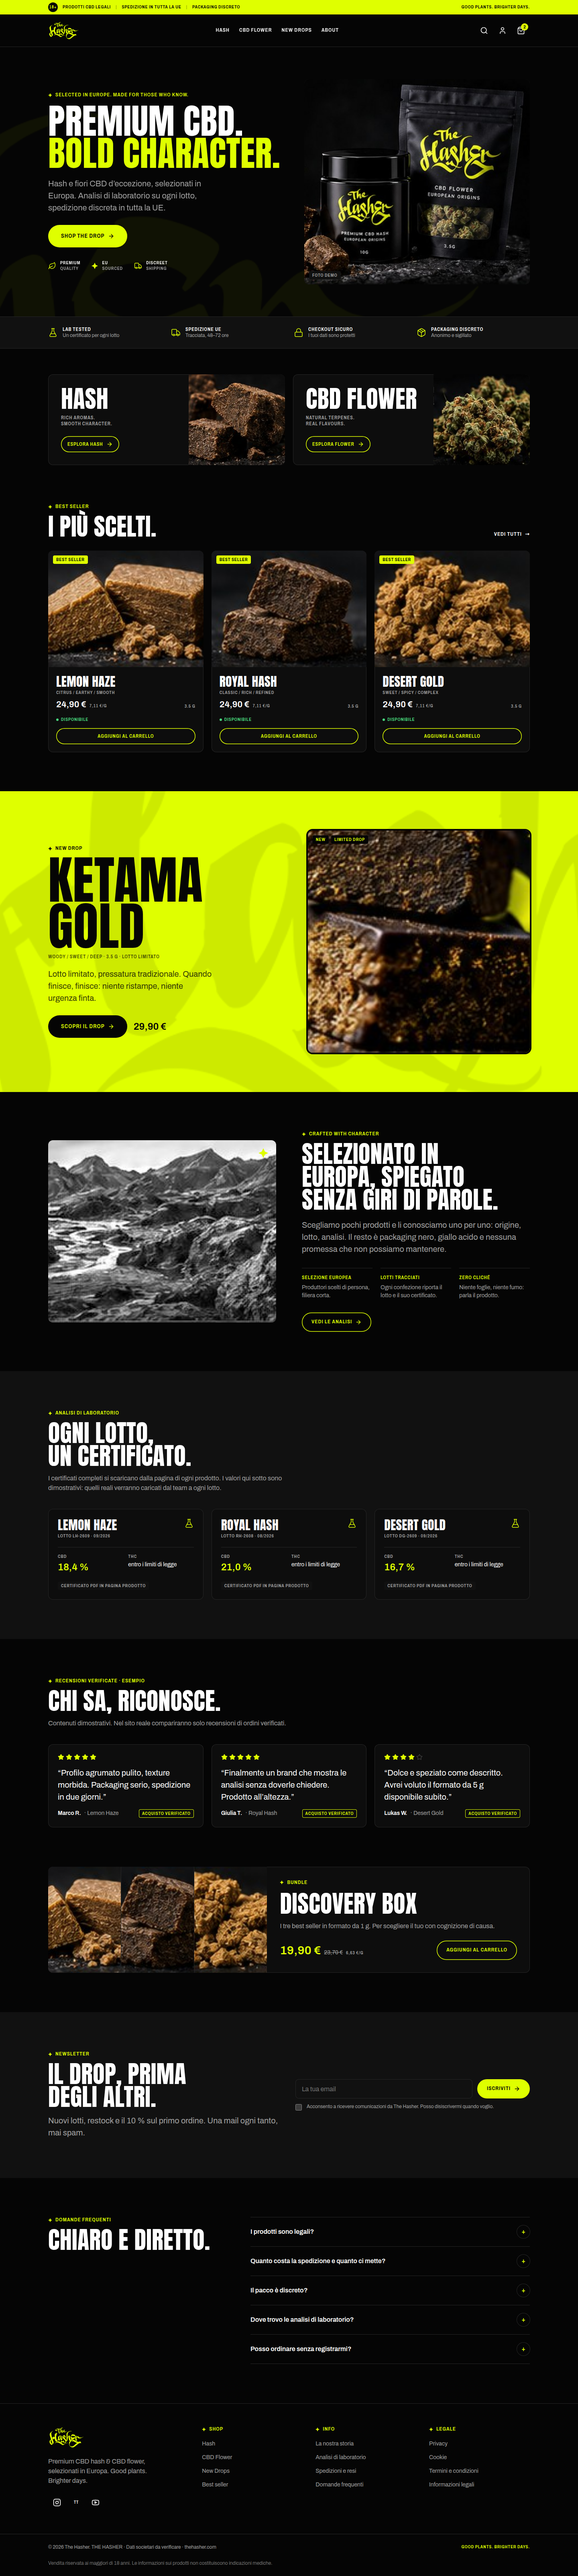
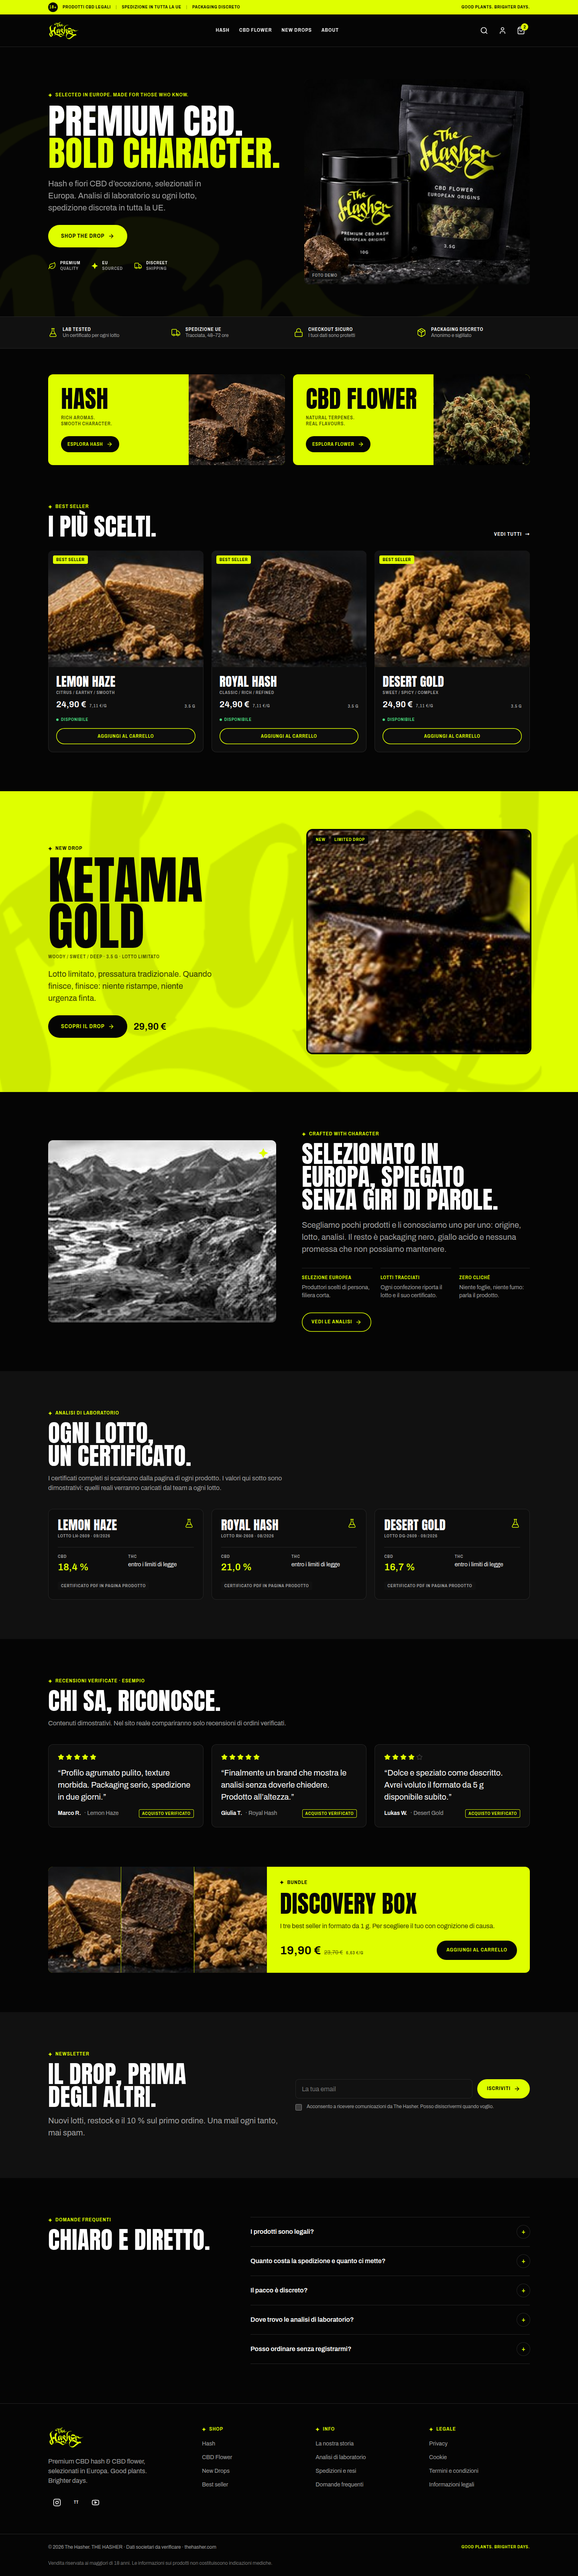
Schede categoria e bundle su fondo giallo con scritte nere
- Card Hash e CBD Flower: fondo giallo acido, titolo e testo neri, bottone nero
- Card bundle Discovery Box: stesso trattamento, separatori delle foto scuri
- Prezzo: nuova variante scura per i fondi gialli

Claude-Session: https://claude.ai/code/session_01PPPZbsQhydRMweje4EtK5n

Changed region(s): [[0.4375, 0.7172, 0.9375, 0.7795], [0.0625, 0.1247, 0.3438, 0.1871], [0.5, 0.1247, 0.75, 0.1871]]

diff --git a/src/pages/Home.tsx b/src/pages/Home.tsx
@@ -109,18 +109,18 @@ export default function Home() {
               <article
                 key={c.id}
                 id={c.id}
-                className="group relative grid scroll-mt-28 grid-cols-[1fr_auto] overflow-hidden rounded-card bg-surface ring-1 ring-line ring-inset"
+                className="group relative grid scroll-mt-28 grid-cols-[1fr_auto] overflow-hidden rounded-card bg-primary text-primary-fg"
               >
                 <div className="flex flex-col justify-between gap-6 p-6 md:p-8">
                   <div>
                     <h2 className="text-h2">{c.title}</h2>
-                    <p className="mt-3 label text-[0.75rem] text-fg-muted">
+                    <p className="mt-3 label text-[0.75rem] text-primary-fg/70">
                       {c.lines[0]}
                       <br />
                       {c.lines[1]}
                     </p>
                   </div>
-                  <Button to={`/#${c.id}`} variant="outline" size="sm" className="self-start">
+                  <Button to={`/#${c.id}`} variant="dark" size="sm" className="self-start">
                     {c.cta} <ArrowRight className="size-4" />
                   </Button>
                 </div>
@@ -305,8 +305,8 @@ export default function Home() {
       {/* ---------- Bundle ---------- */}
       <Section className="pt-0">
         <Container>
-          <article className="grid overflow-hidden rounded-card bg-surface ring-1 ring-line ring-inset md:grid-cols-[1fr_1.2fr]">
-            <div className="grid grid-cols-3 gap-px bg-line">
+          <article className="grid overflow-hidden rounded-card bg-primary text-primary-fg md:grid-cols-[1fr_1.2fr]">
+            <div className="grid grid-cols-3 gap-px bg-primary-fg/20">
               {bestSellers.map((p) => (
                 <img
                   key={p.slug}
@@ -318,17 +318,18 @@ export default function Home() {
               ))}
             </div>
             <div className="flex flex-col gap-4 p-6 md:p-8">
-              <Eyebrow>{home.bundle.eyebrow}</Eyebrow>
+              <Eyebrow tone="dark">{home.bundle.eyebrow}</Eyebrow>
               <h2 className="text-h2">{home.bundle.title}</h2>
-              <p className="max-w-prose text-fg-muted">{home.bundle.text}</p>
+              <p className="max-w-prose text-primary-fg/80">{home.bundle.text}</p>
               <div className="mt-2 flex flex-wrap items-center justify-between gap-4">
                 <Price
                   cents={home.bundle.price}
                   compareAt={home.bundle.compareAt}
                   grams={home.bundle.grams}
                   size="lg"
+                  tone="dark"
                 />
-                <Button variant="outline">{home.bundle.cta}</Button>
+                <Button variant="dark">{home.bundle.cta}</Button>
               </div>
             </div>
           </article>

diff --git a/src/components/ui/Price.tsx b/src/components/ui/Price.tsx
@@ -10,21 +10,44 @@ type PriceProps = {
   /** grammi del formato: mostra il prezzo al grammo */
   grams?: number
   size?: 'md' | 'lg'
+  /** `dark` = da usare sui fondi gialli: prezzo e note in nero */
+  tone?: 'primary' | 'dark'
   className?: string
 }
 
-/** Prezzo in giallo, prezzo precedente barrato, prezzo al grammo sempre visibile. */
-export function Price({ cents, compareAt, grams, size = 'md', className }: PriceProps) {
+/** Prezzo in evidenza, prezzo precedente barrato, prezzo al grammo sempre visibile. */
+export function Price({
+  cents,
+  compareAt,
+  grams,
+  size = 'md',
+  tone = 'primary',
+  className,
+}: PriceProps) {
+  const onYellow = tone === 'dark'
   return (
     <p className={cn('flex flex-wrap items-baseline gap-x-2 gap-y-0.5', className)}>
-      <span className={cn('font-semibold text-primary', size === 'lg' ? 'text-3xl' : 'text-price')}>
+      <span
+        className={cn(
+          'font-semibold',
+          onYellow ? 'text-primary-fg' : 'text-primary',
+          size === 'lg' ? 'text-3xl' : 'text-price',
+        )}
+      >
         {formatPrice(cents)}
       </span>
       {compareAt && compareAt > cents && (
-        <s className="text-sm text-fg-muted">{formatPrice(compareAt)}</s>
+        <s className={cn('text-sm', onYellow ? 'text-primary-fg/60' : 'text-fg-muted')}>
+          {formatPrice(compareAt)}
+        </s>
       )}
       {grams && (
-        <span className="label text-[0.6875rem] text-fg-muted">
+        <span
+          className={cn(
+            'label text-[0.6875rem]',
+            onYellow ? 'text-primary-fg/70' : 'text-fg-muted',
+          )}
+        >
           {formatPrice(Math.round(cents / grams))}/g
         </span>
       )}

diff --git a/design/DECISIONS.md b/design/DECISIONS.md
@@ -30,3 +30,5 @@
 - 2026-09-16 · Con l'annullamento sono usciti anche la pagina `/negozio` con i filtri e i wireframe nella mappa, perché erano nello stesso pacchetto · si possono rifare sulla grafica attuale quando Lorenzo lo chiede
 - 2026-09-17 · Animazioni sobrie: comparsa allo scroll una volta sola (componente `Reveal`), hover che solleva le card, cambio pagina in dissolvenza da 180 ms · movimento solo su opacità e spostamento, tutto disattivato con «riduci movimento» di sistema
 - 2026-09-17 · Cambiando pagina si riparte sempre dall’alto · prima restava a metà scroll come in un’app, non come in un sito
+- 2026-09-27 · Card categoria (Hash, CBD Flower) e bundle Discovery Box con fondo giallo e scritte nere, bottone nero · scelta di Lorenzo: il giallo passa da accento a superficie in questi tre blocchi
+- 2026-09-27 · Aggiunta variante `tone="dark"` al prezzo, da usare sui fondi gialli · il prezzo resta leggibile senza colori fuori palette
